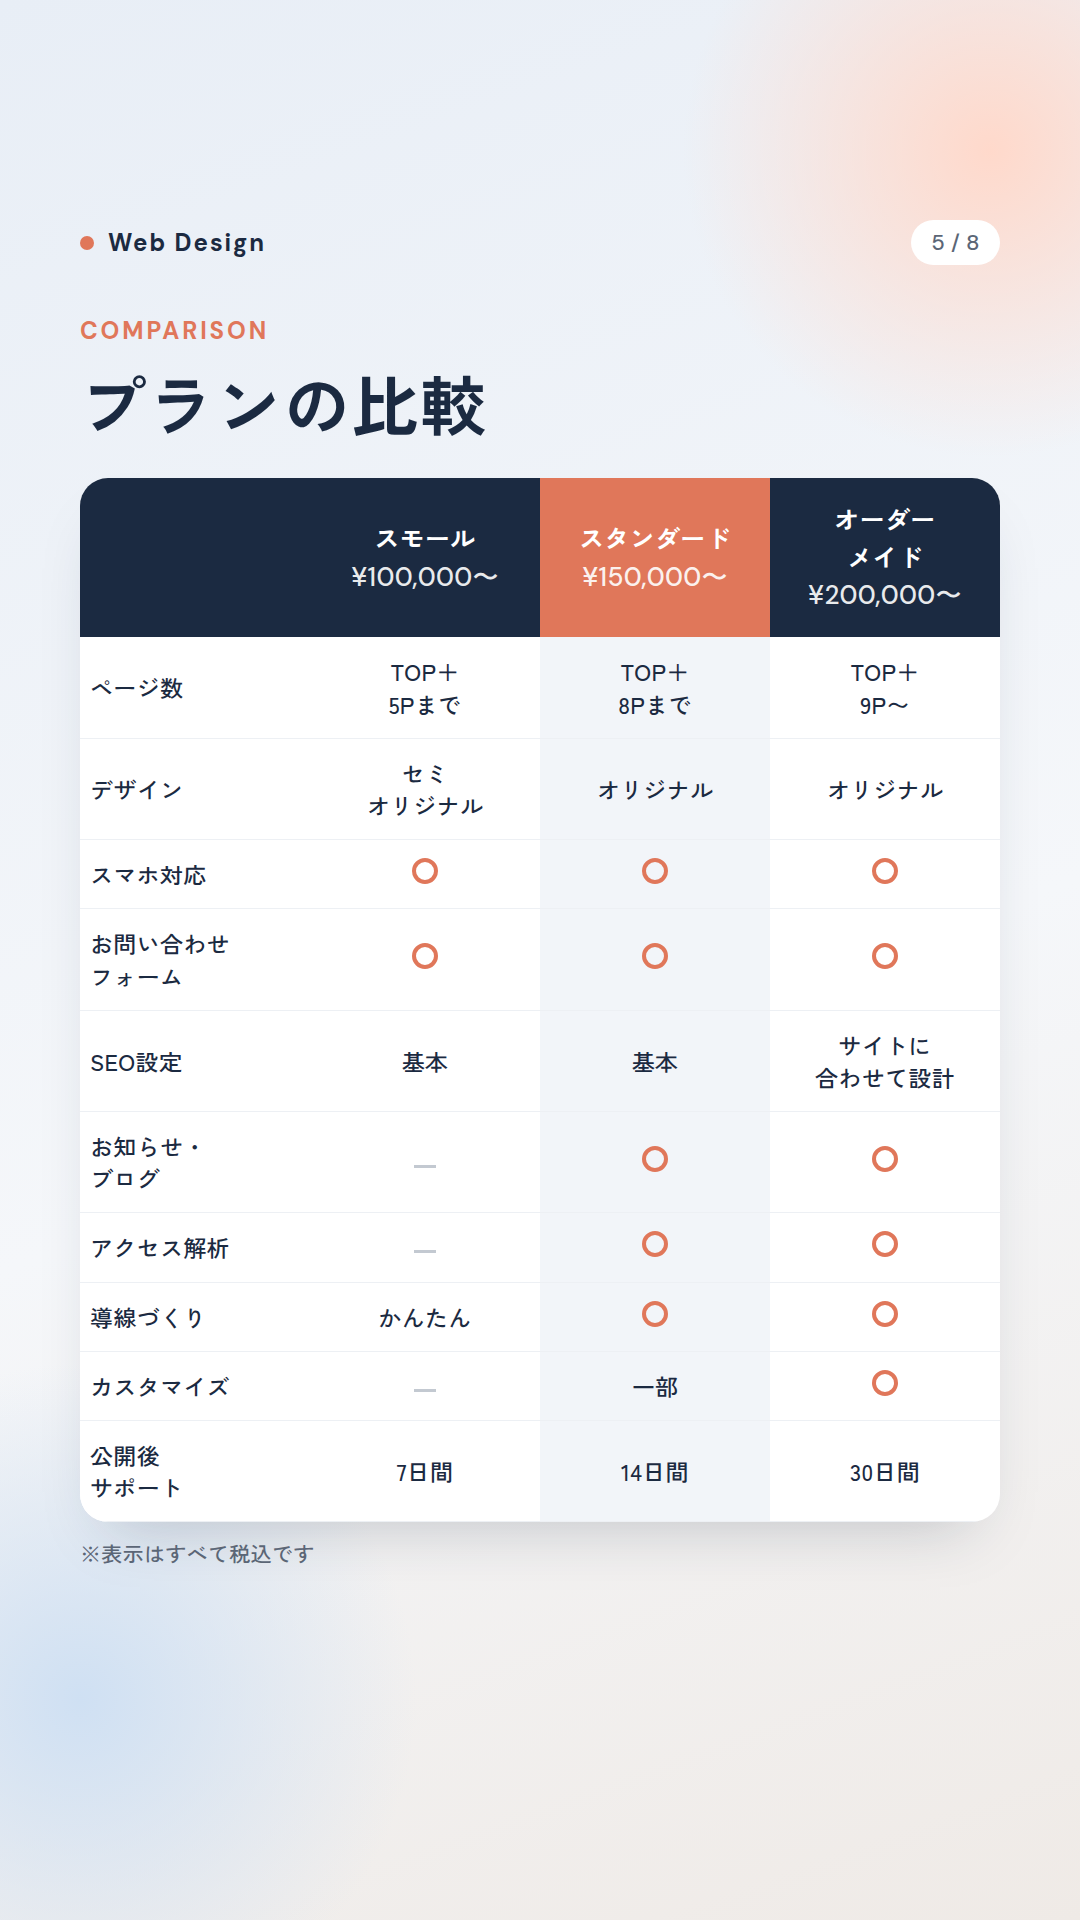
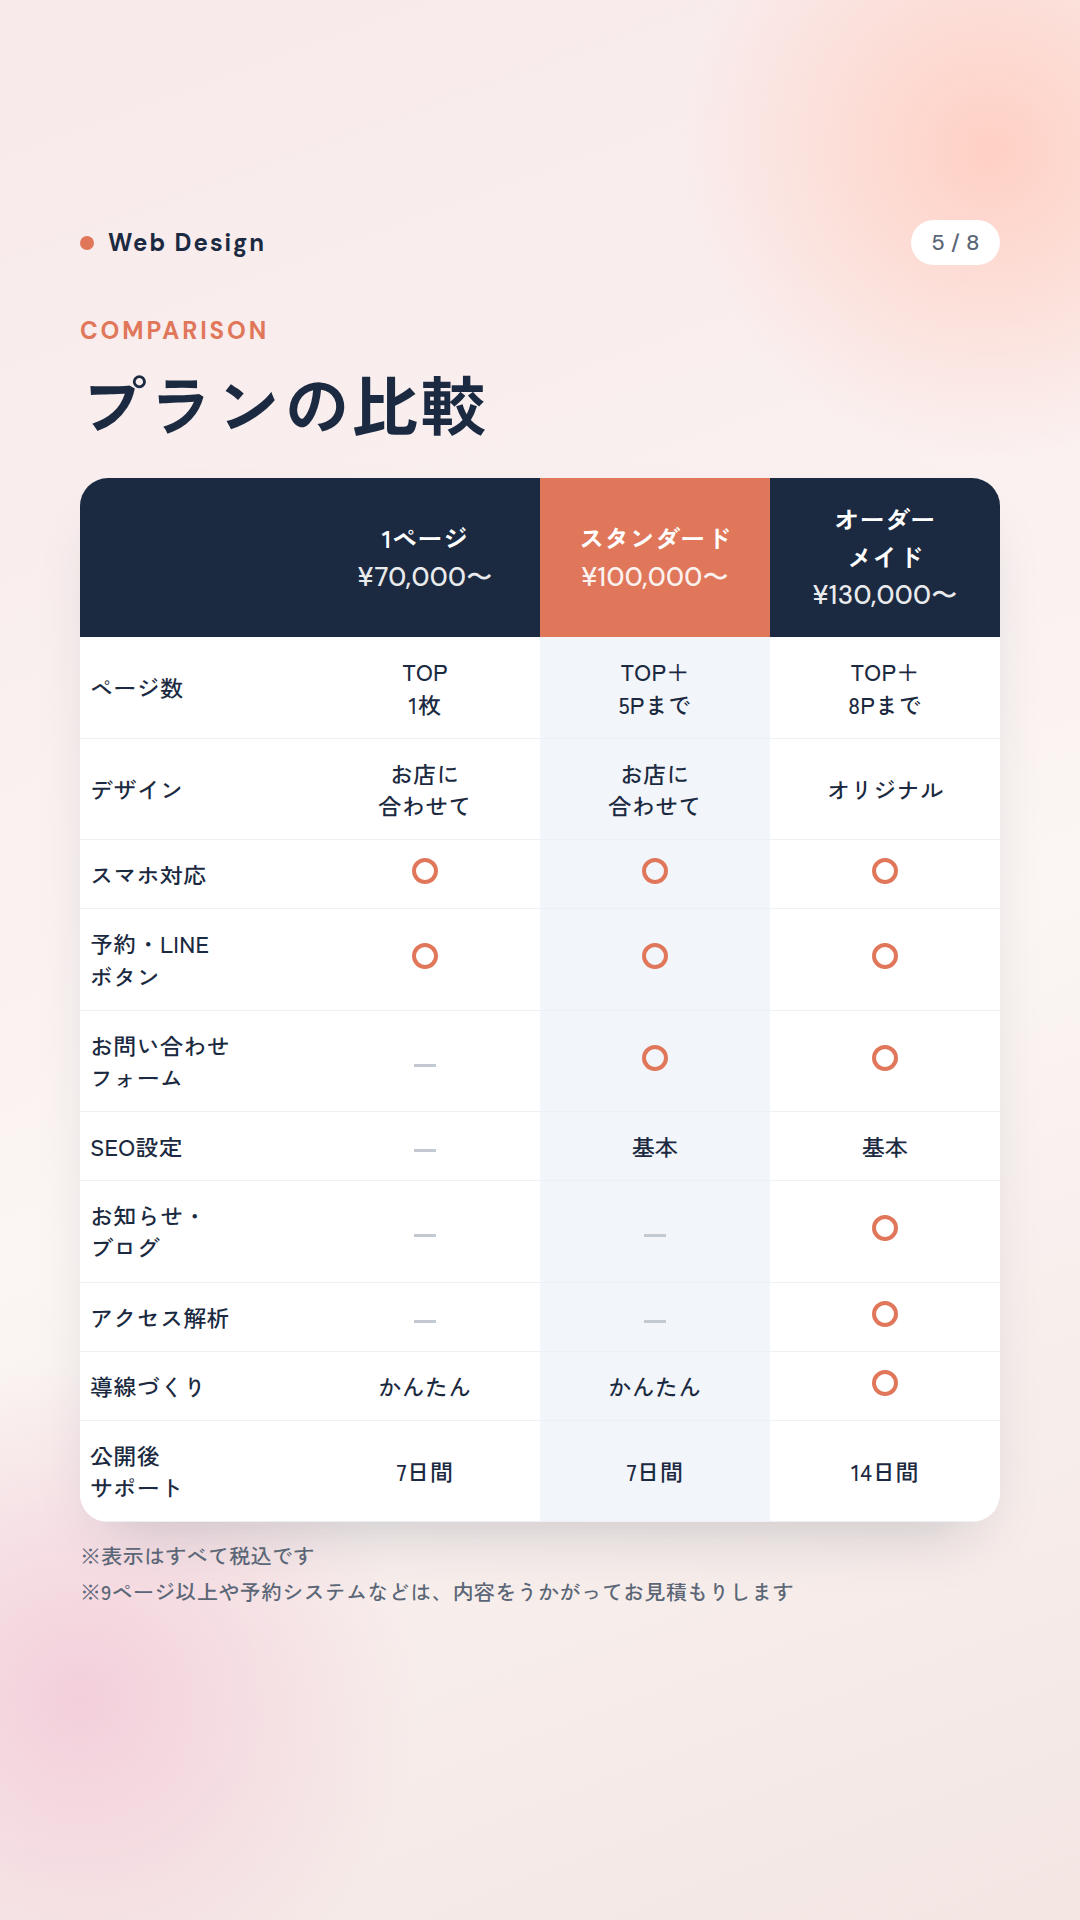
Update price highlight to new plans (70k / 100k / 130k) in pink design
Claude-Session: https://claude.ai/code/session_01Ro8zDwZkt9a81nMzgkBjHg

diff --git a/atelier/index.html b/atelier/index.html
@@ -151,7 +151,7 @@
           <h3>1ページのサイト</h3>
           <p class="plan__price">¥70,000<small>〜</small></p>
           <p class="plan__for">まずはGoogleマップやインスタのリンク先として、お店の情報をまとめたい方へ</p>
-          <ul class="ck"><li>トップページ1枚</li><li>お店に合わせたデザイン</li><li>スマホ対応</li><li>予約サイト・LINEへのボタン</li></ul>
+          <ul class="ck"><li>トップページ1枚</li><li>お店に合わせたデザイン</li><li>スマホ対応</li><li>予約サイト・LINEへのボタン</li><li>公開後7日間のサポート</li></ul>
         </article>
         <article class="plan plan--pop reveal">
           <p class="plan__badge">人気</p>
